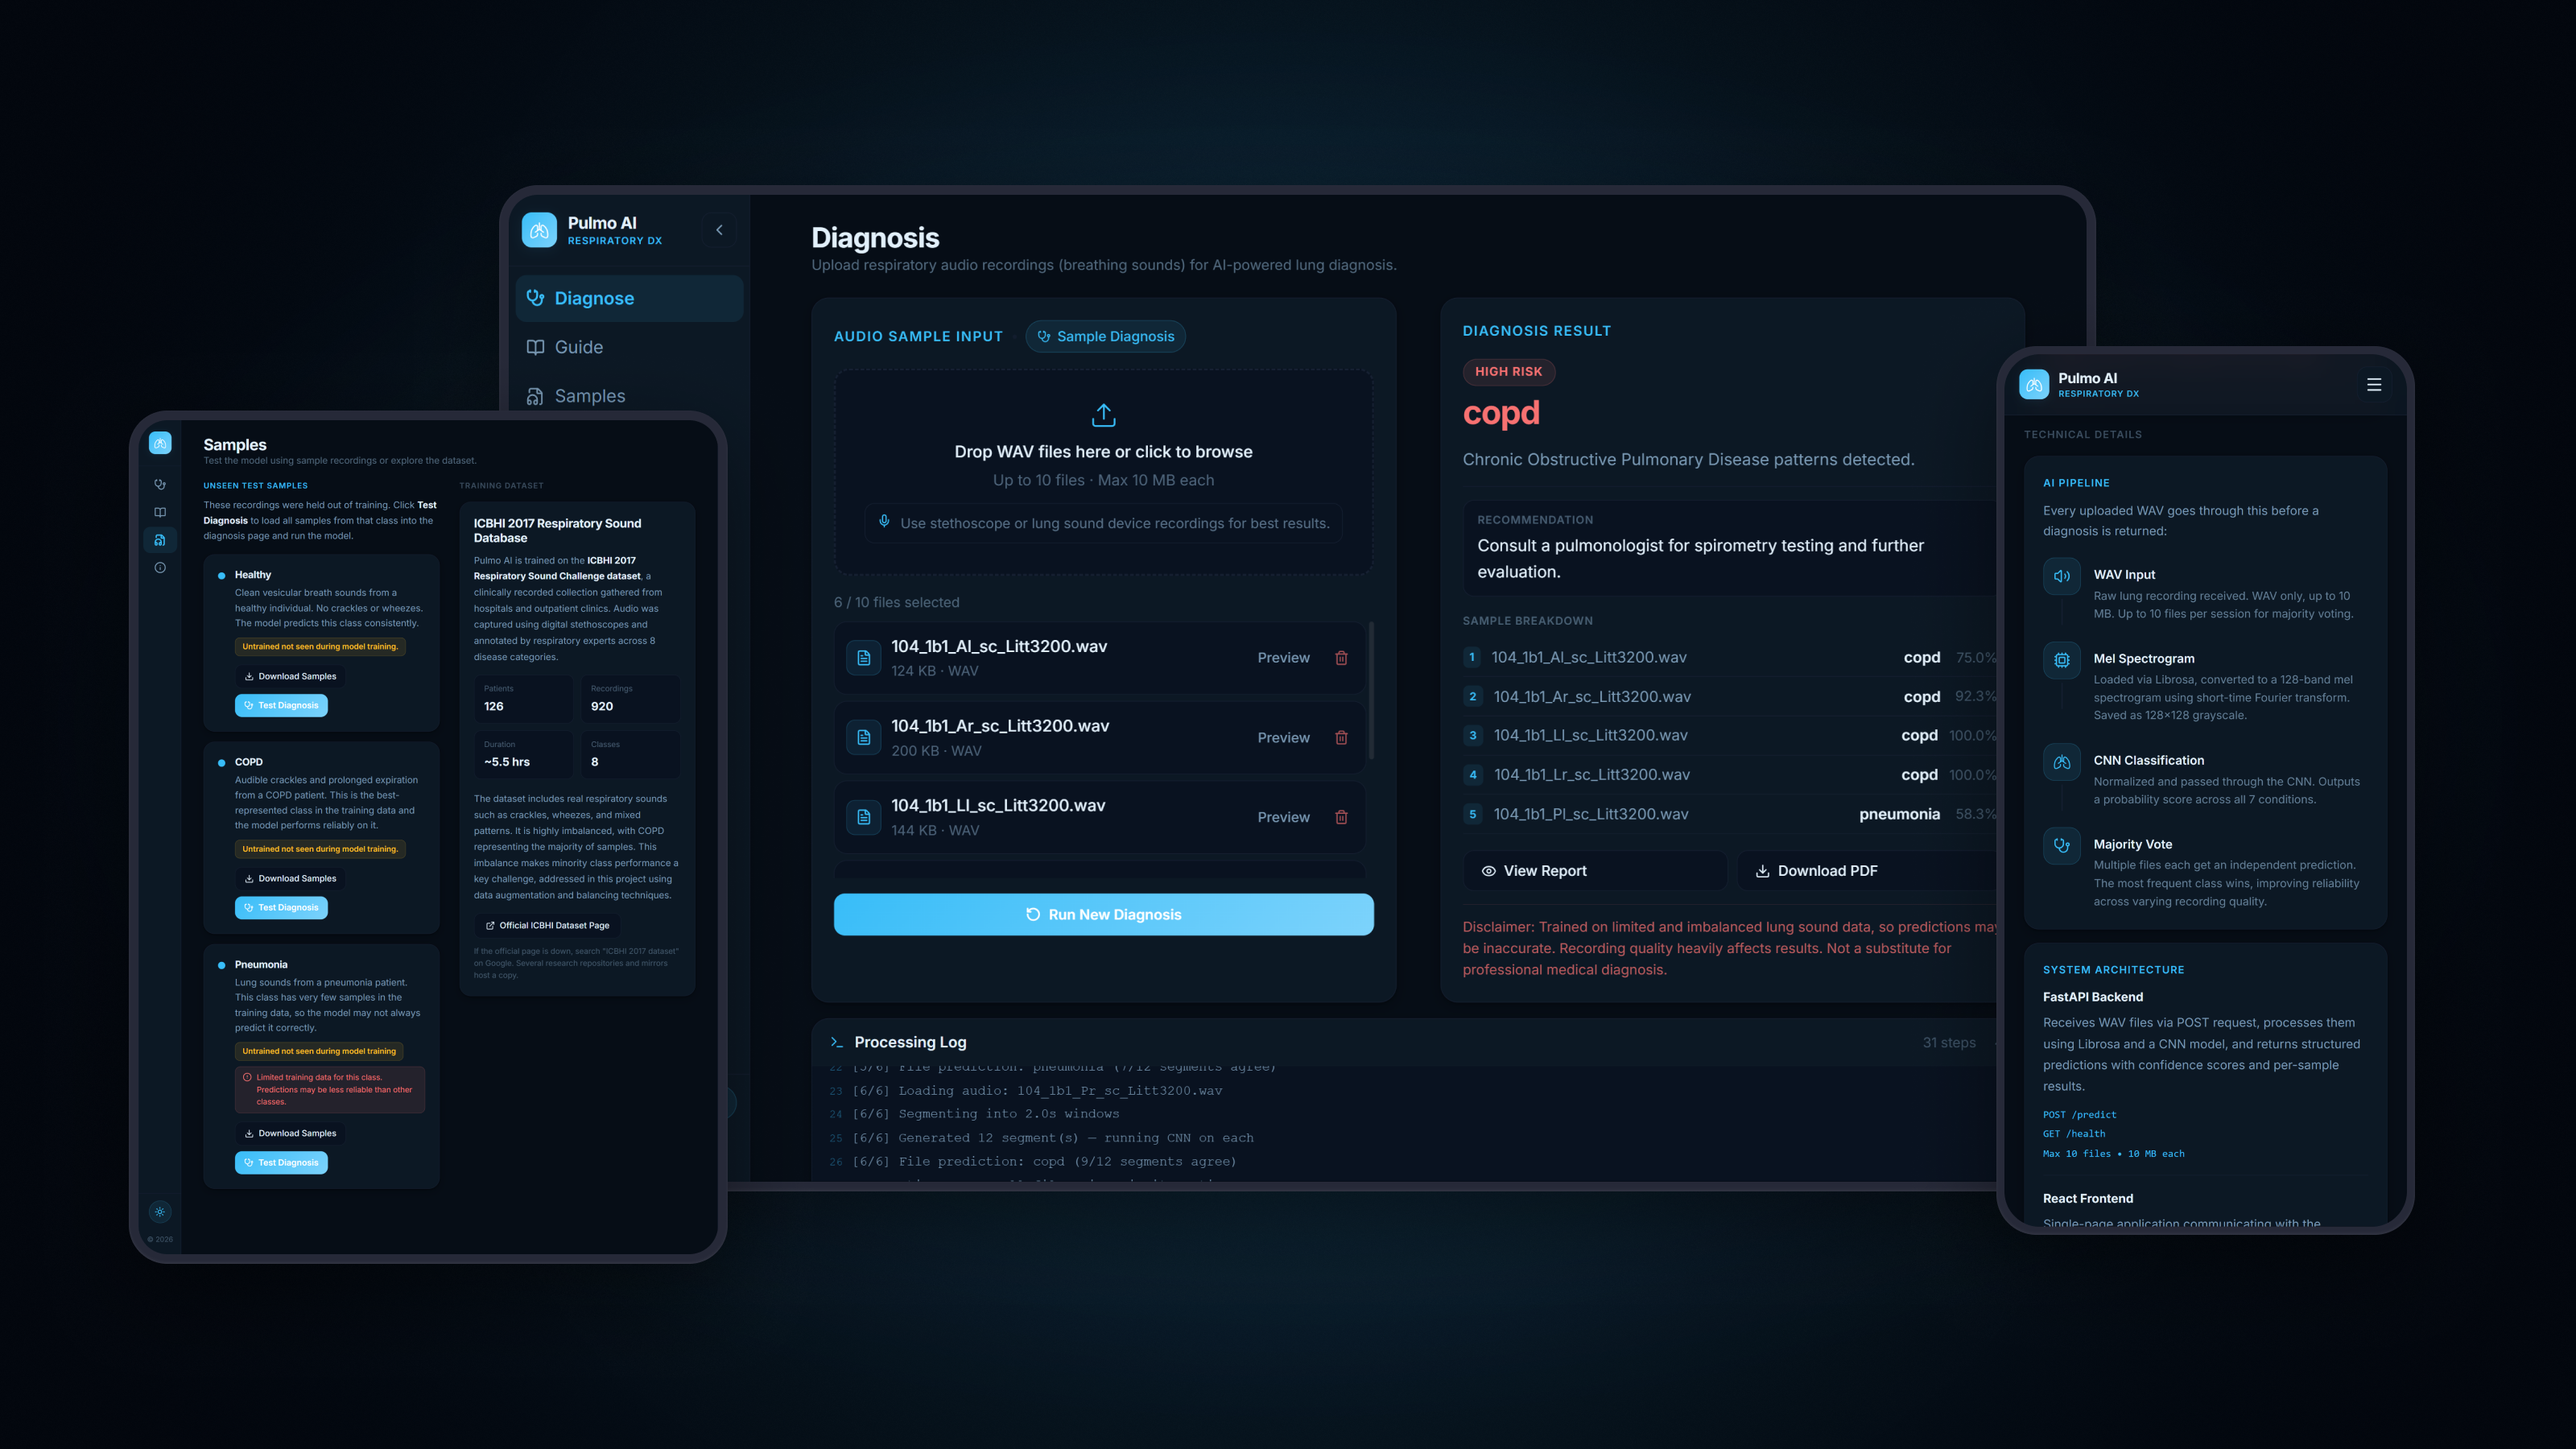
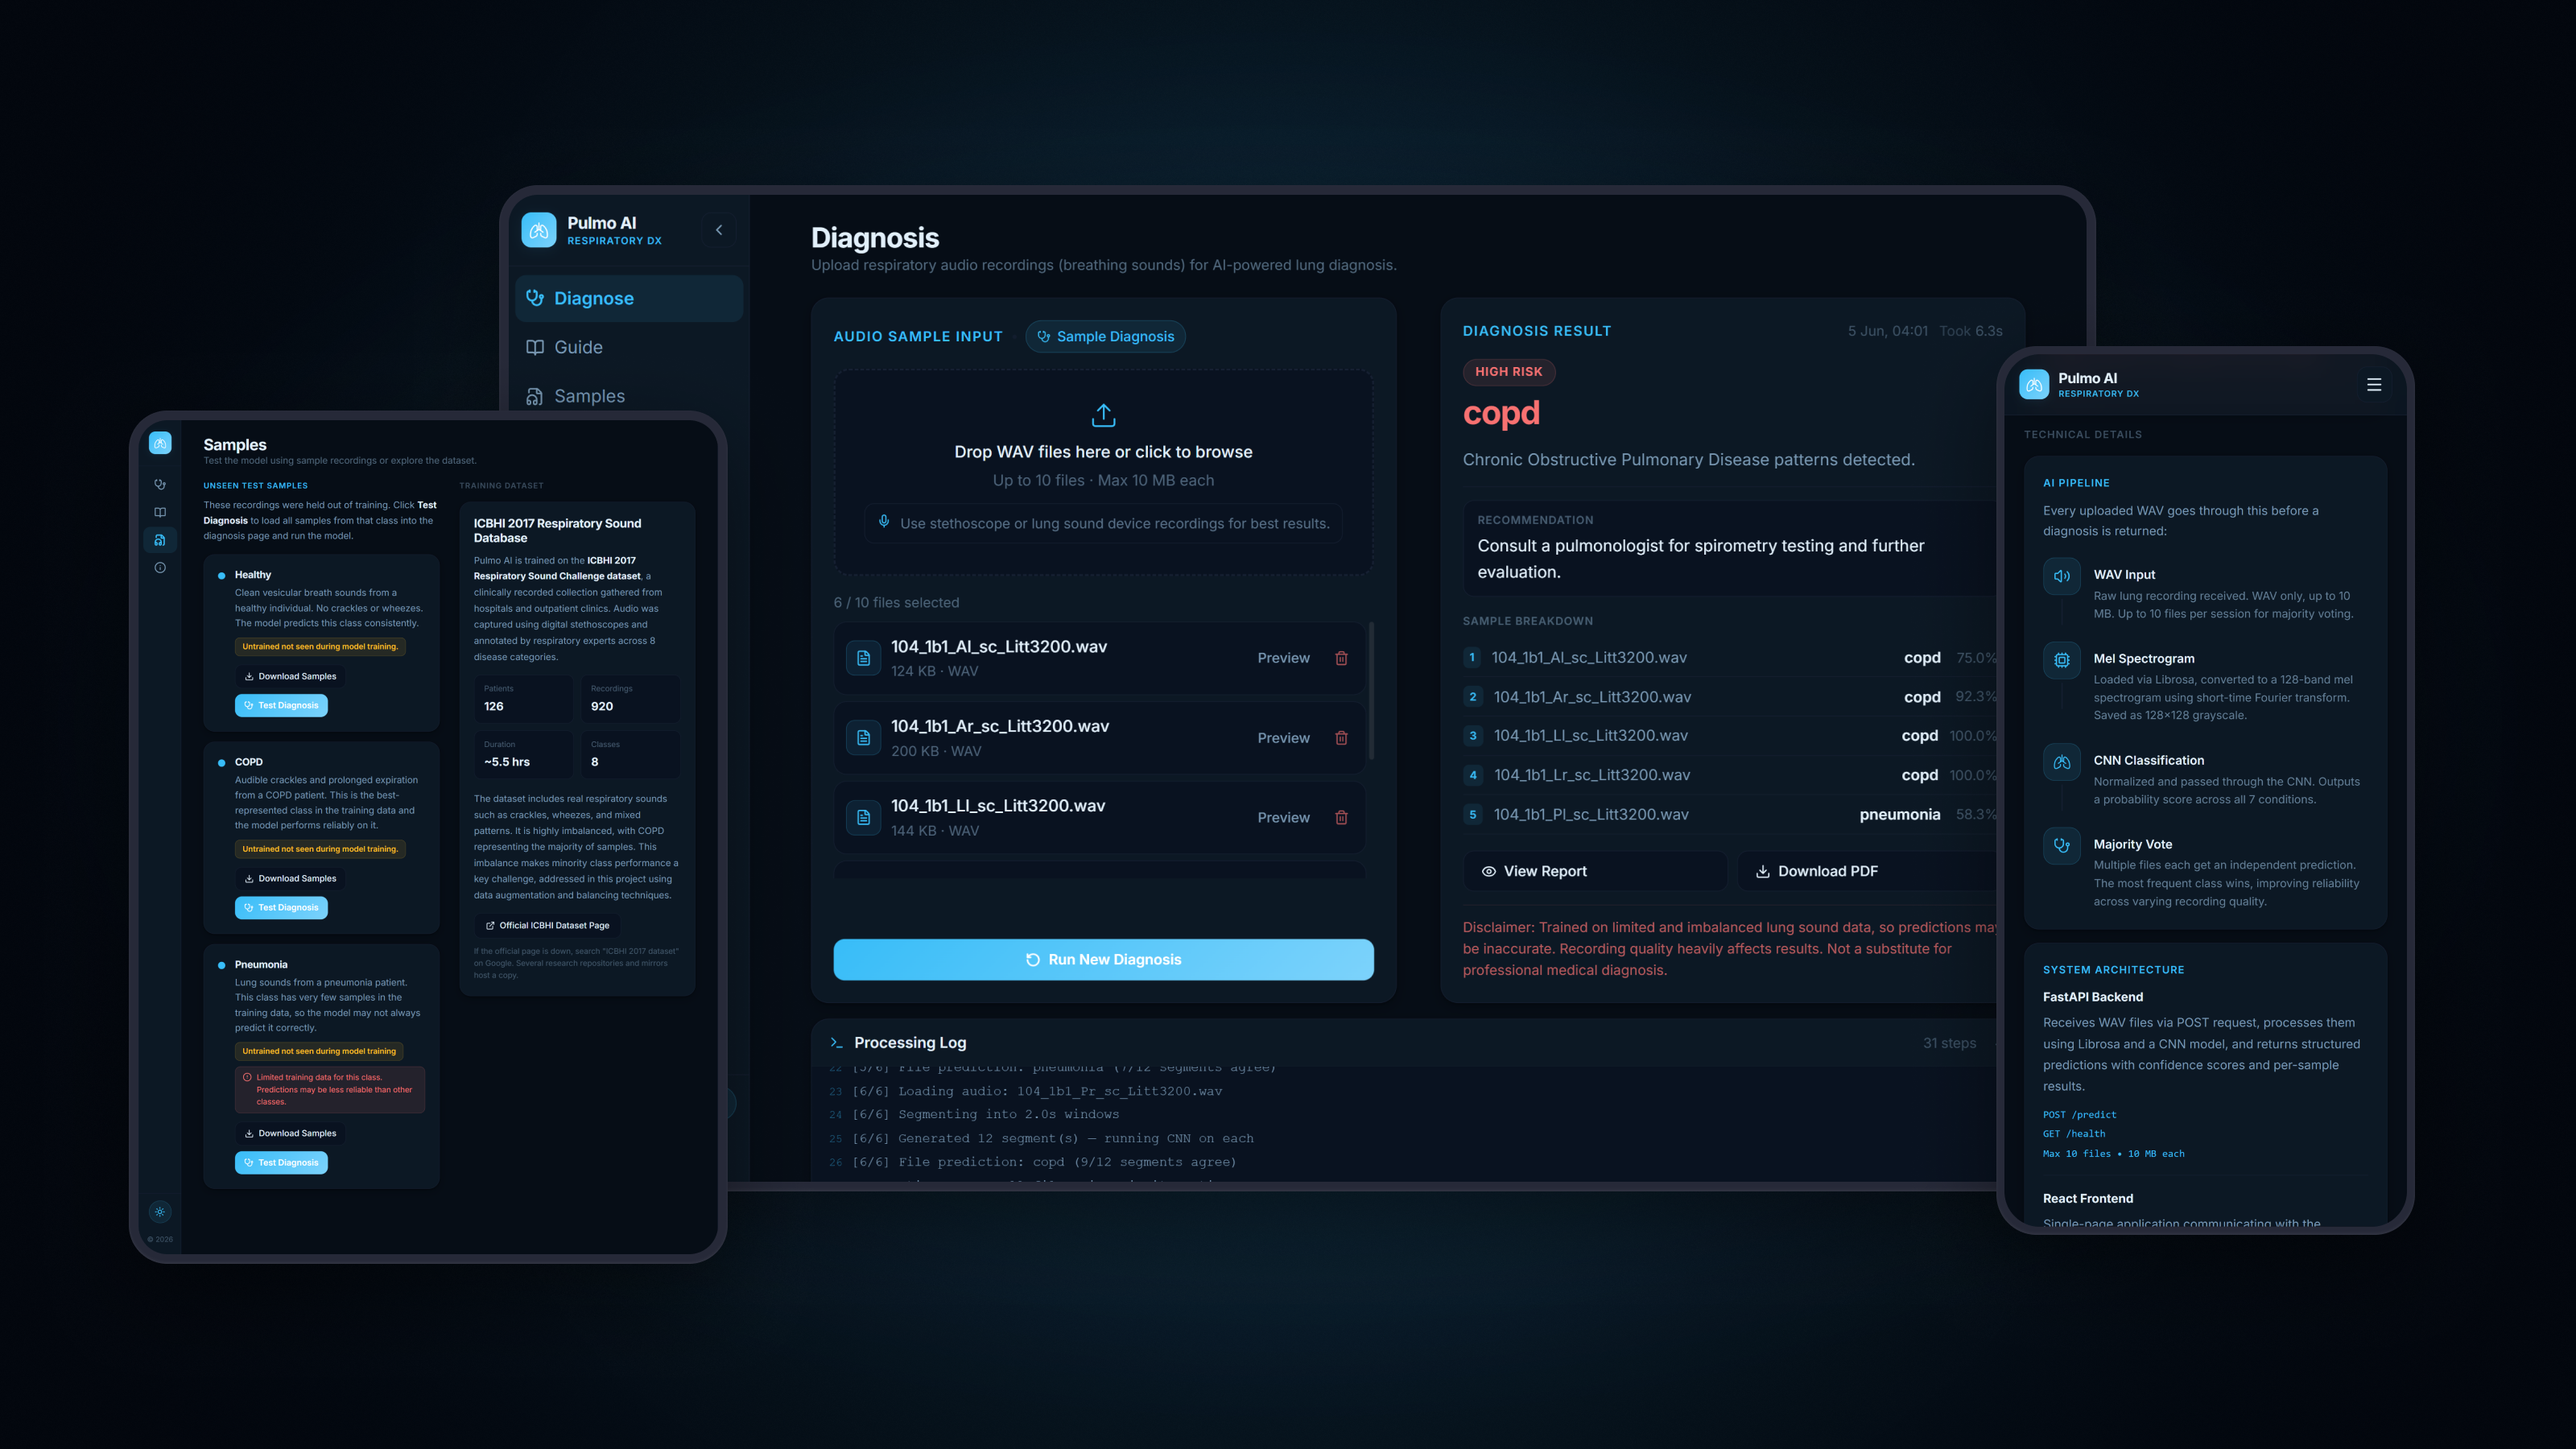
docs: update full case study link in readme

diff --git a/README.md b/README.md
@@ -2,7 +2,7 @@
 
 A respiratory disease classification tool that analyzes lung audio recordings. WAV files are segmented into breath cycles, converted to mel spectrograms, and classified by a CNN model trained on the ICBHI 2017 dataset across eight conditions.
 
-Live: https://pulmoai.pritamsardar.dev  |  Case Study: https://pritamsardar.dev/full-case-study/portfolio-respiratory-disease-diagnosis-ai-v1?source=case-studies
+Live: https://pulmoai.pritamsardar.dev  |  Case Study: https://www.pritamsardar.dev/full-case-study/project-row-pulmo-ai?source=case-studies
 
 <picture>
   <source media="(prefers-color-scheme: dark)" srcset=".github/images/pulmoai-hero-dark.png">
@@ -102,10 +102,11 @@ App runs at `http://localhost:5173`.
 server/
 ├── models/          # Trained CNN model (.keras) and label encoder (.pkl)
 ├── utils/
-│   ├── audio.py     # Mel spectrogram generation utility
+│   ├── db.py        # SQLite job store with init, insert, fetch, save, delete, and purge operations
 │   └── cleanup.py   # Temp file removal after each inference run
-├── main.py          # FastAPI app, request validation, and file size limits
-├── predictor.py     # Full inference pipeline with segmentation and majority voting
+├── main.py          # FastAPI app with async job creation and job status and cancel endpoints
+├── jobs.py          # Job lifecycle manager backed by SQLite with in-memory cancel event support
+├── predictor.py     # Full inference pipeline with live progress callbacks and cancel event support
 ├── preprocess.py    # Data preprocessing and augmentation (training only, not deployed)
 └── model_train.py   # CNN architecture and training script (training only, not deployed)
 
@@ -131,6 +132,12 @@ client/
 ```
 
 ## Technical Notes
+
+### Async job system
+
+Diagnosis runs as a background job on the server. When files are submitted, the backend creates a job with a unique ID and returns it immediately so the request never blocks. The frontend stores the job ID in localStorage and polls the status endpoint every second to receive live processing steps and the final result. Navigation away from the diagnosis page and back does not interrupt the run because the job continues on the server regardless of client state. Submitted files are persisted in IndexedDB and the processing log is persisted alongside them so both survive a page reload or navigation and are restored on remount. A cancel endpoint sets a threading event that stops inference between file boundaries, freeing CPU and memory without waiting for the full run to finish.
+
+Job state is persisted to a SQLite database so active diagnoses survive server restarts. Any job that was still running when the server stopped is automatically marked as failed on the next startup so the client receives a clear error instead of polling indefinitely. Completed jobs are removed from the database as soon as the result is served. If the server restarts while the client is polling and the job is no longer found, the frontend stops polling and shows a recoverable error rather than looping on 404 responses.
 
 ### Segment based inference
 
